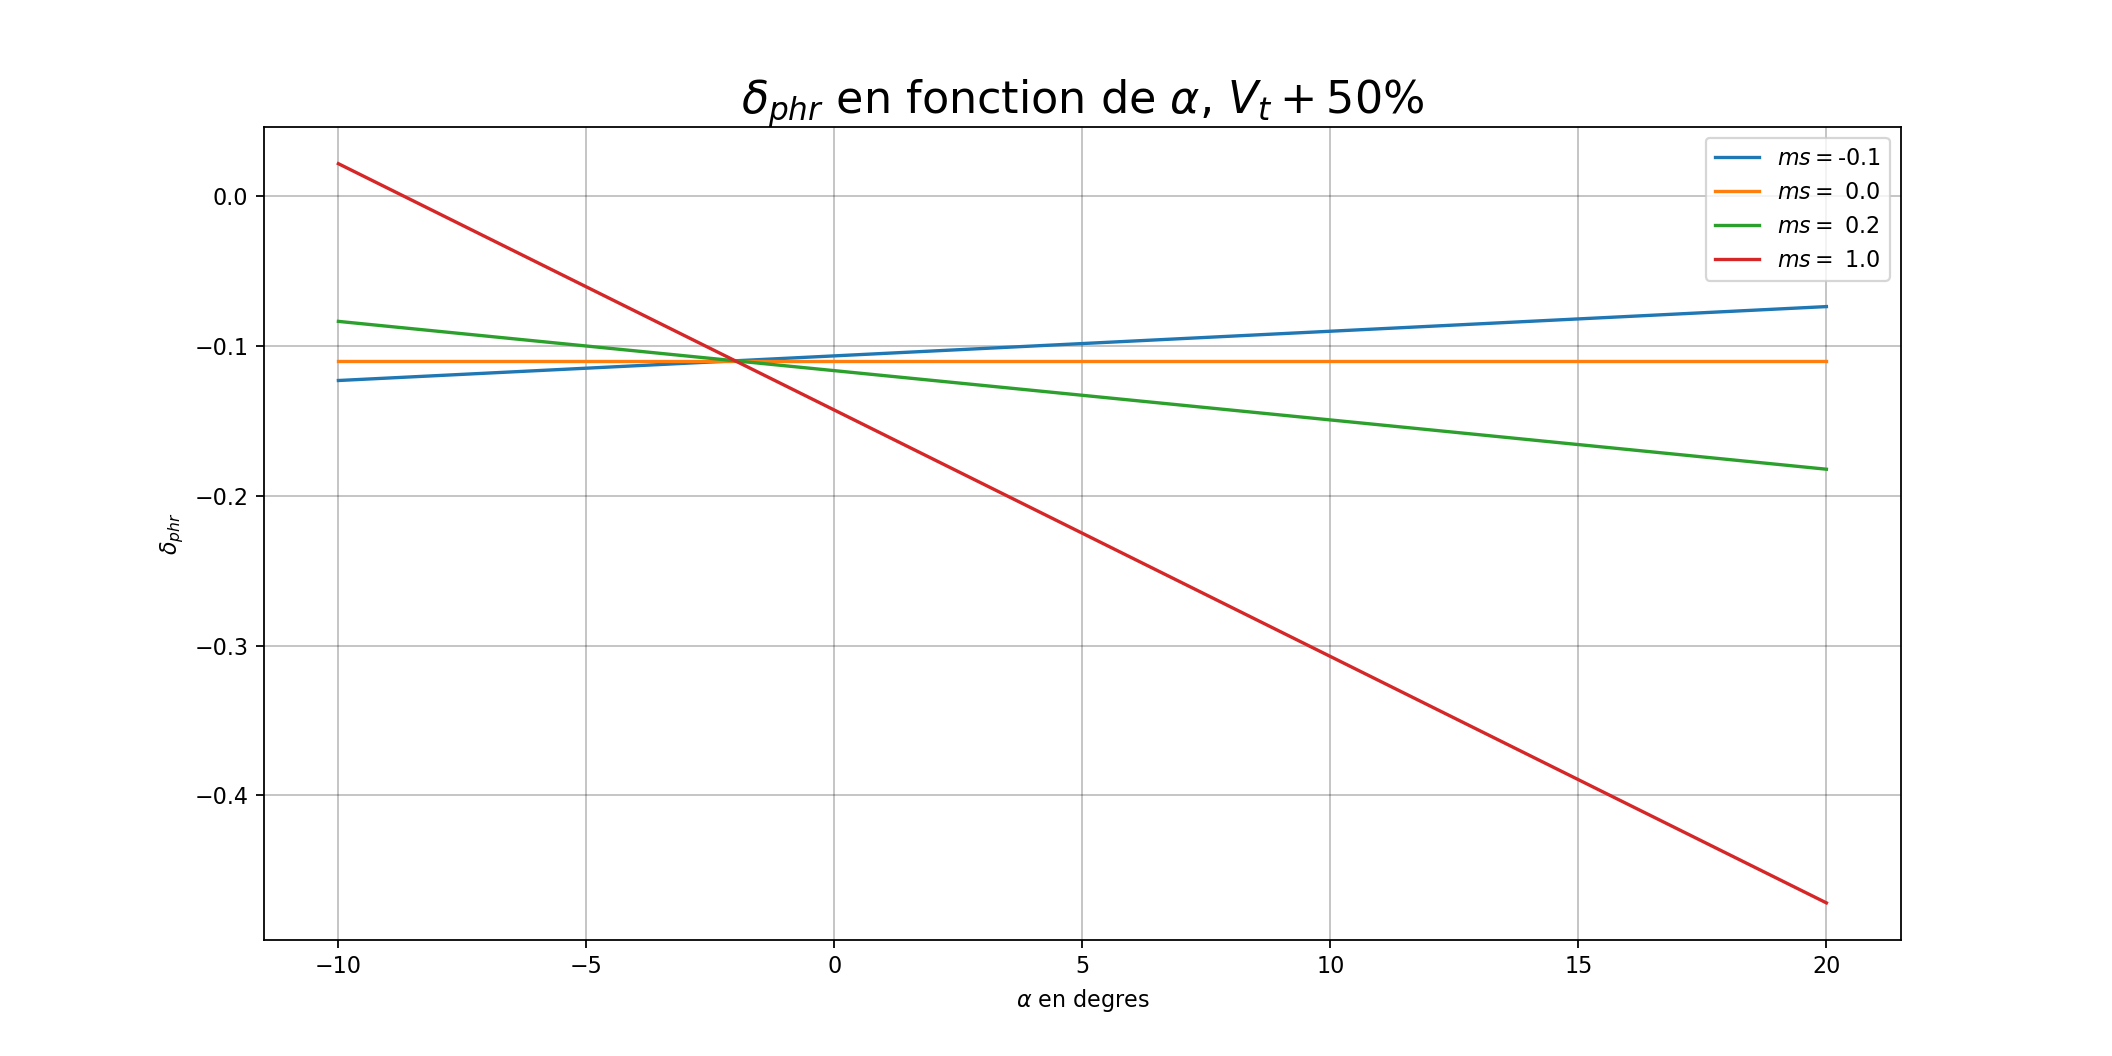
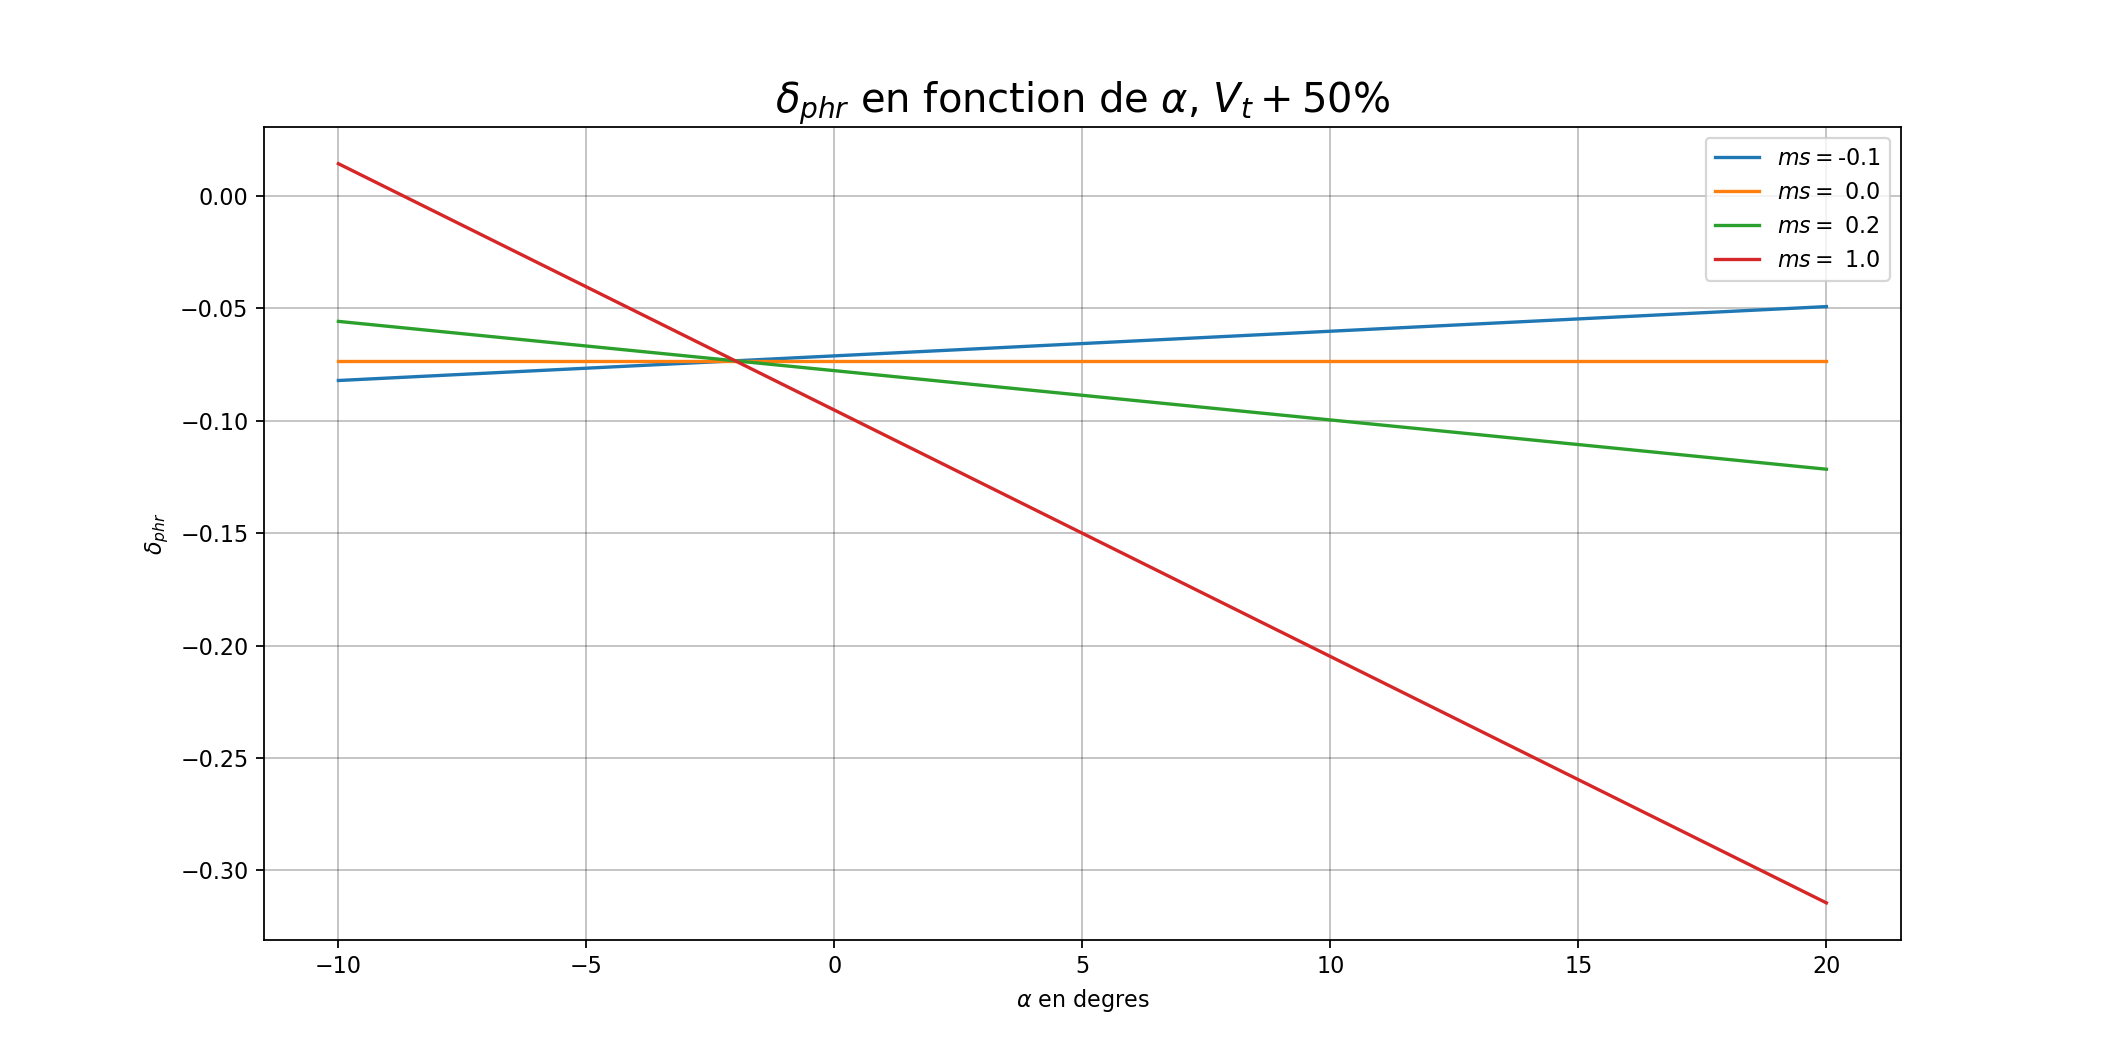
Correction poussée des moteurs

diff --git a/seance_1.py b/seance_1.py
@@ -18,7 +18,7 @@ def plot_thrust(aircraft, filename=None):
     for h in hs:
         thrusts = [dyn.propulsion_model([0, h, dyn.va_of_mach(mach, h), 0, 0, 0], U, aircraft) for mach in machs]
         plt.plot(machs, thrusts)
-    ut.decorate(plt.gca(), u'Poussée maximum {}'.format(aircraft.eng_name), 'Mach', '$N$',
+    ut.decorate(plt.gca(), u'Poussée maximum pour un moteur {}'.format(aircraft.eng_name), 'Mach', '$N$',
                 ['{} m'.format(h) for h in hs])
     if filename is not None:
         plt.savefig(filename, dpi=160)
@@ -60,23 +60,24 @@ def plot_Cm(aircraft, filename=None):
 
 
 def plot_dphr_e_vt(aircraft, filename=None):
-    aircraft.Vt = aircraft.Vt * 1.5
     mss = [-0.1, 0., 0.2, 1.]
 
     def dphr(alpha, ms):
         return (- aircraft.Cm0 + ms * aircraft.CLa * (alpha - aircraft.a0)) / aircraft.Cmd
 
-    figure = ut.prepare_fig(None,
-                            r'$\delta_{phr}$ en fonction de $\alpha$ avec $V_{t} + 50\%$ {name}'.format(phr='phr', t='t'
-                                                                                                        ,
-                                                                                                        name=aircraft.name))
+    figure = ut.prepare_fig(None, r'$\delta_{phr}$ en fonction de '
+                                  r'$\alpha$ avec $V_{t} + 50\%$ {name}'.format(phr='phr', t='t', name=aircraft.name))
     for ms in mss:
         aircraft.set_mass_and_static_margin(aircraft.m_k, ms)
+
+        aircraft.Vt = aircraft.Vt * 1.5
+        aircraft.Cmd = -aircraft.Vt * aircraft.CLat
+        aircraft.Cmq = aircraft.Cmd * aircraft.CLq
+
         dphrs = [dphr(alpha, ms) for alpha in alphas]
         plt.plot(ut.deg_of_rad(alphas), dphrs)
         ut.decorate(plt.gca(), r'$\delta_{phr}$ en fonction de $\alpha$, $V_{t} + 50\%$', r'$\alpha$ en degres',
-                    u'$\delta_{phr}$',
-                    ['$ms =  ${: .1f}'.format(ms) for ms in mss])
+                    r'$\delta_{phr}$', ['$ms =  ${: .1f}'.format(ms) for ms in mss])
     if filename is not None:
         plt.savefig(filename, dpi=160)
     return figure
@@ -161,11 +162,11 @@ def plot_polar(aircraft, filename=None):
 
 if __name__ == "__main__":
     aircraft = dyn.Param_A321()
-    plot_thrust(aircraft, 'seance_1/plots/{}_thrust.png'.format(aircraft.get_name()))
-    plot_CL(aircraft, 'seance_1/plots/{}_CL.png'.format(aircraft.get_name()))
-    plot_Cm(aircraft, 'seance_1plots/{}_Cm.png'.format(aircraft.get_name()))
-    plot_dphr_e(aircraft, 'seance_1plots/{}_dPHR.png'.format(aircraft.get_name()))
-    plot_dphr_e_vt(aircraft, 'seance_1plots/{}_dPHR vt augmenter de 50%.png'.format(aircraft.get_name()))
-    plot_CLe(aircraft, 'seance_1plots/{}_CLe.png'.format(aircraft.get_name()))
-    plot_polar(aircraft, 'seance_1plots/{}_polar.png'.format(aircraft.get_name()))
+    plot_thrust(aircraft, 'plots/seance_1/{}_thrust.png'.format(aircraft.get_name()))
+    plot_CL(aircraft, 'plots/seance_1/{}_CL.png'.format(aircraft.get_name()))
+    plot_Cm(aircraft, 'plots/seance_1/{}_Cm.png'.format(aircraft.get_name()))
+    plot_dphr_e(aircraft, 'plots/seance_1/{}_dPHR.png'.format(aircraft.get_name()))
+    plot_dphr_e_vt(aircraft, 'plots/seance_1/{}_dPHR vt augmenter de 50%.png'.format(aircraft.get_name()))
+    plot_CLe(aircraft, 'plots/seance_1/{}_CLe.png'.format(aircraft.get_name()))
+    plot_polar(aircraft, 'plots/seance_1/{}_polar.png'.format(aircraft.get_name()))
     plt.show()

diff --git a/dynamic.py b/dynamic.py
@@ -13,7 +13,11 @@ import scipy.optimize
 import utils as ut
 
 ''' naming of state and input components '''
+# voici ls composantes de X vecteur d'état en unité internationale
+#  pos horizontale, pos verticale, vit air, alpha (incidence), theta (assiette), q vit de tangage, size ??
 s_y, s_h, s_va, s_a, s_th, s_q, s_size = range(0, 7)
+# voici les composantes du vecteur de commande
+# deflection de l'élévateur, position manette gaz, rotation sur l'axe Y, rotation sur l'axe Z
 i_dm, i_dth, i_wy, i_wz, i_size = range(0, 5)
 
 
@@ -22,11 +26,16 @@ def get_mach(va, T, k=1.4, Rs=287.05):
 
 
 def va_of_mach(m, h, k=1.4, Rs=287.05):
+    """m est la vitesse en mach"""
     p, rho, T = ut.isa(h)
     return m * math.sqrt(k * Rs * T)
 
 
 def propulsion_model(X, U, P):
+    """renvoie la poussée d'UN moteur, dépend : \n
+     de la poussée max au sol (F0) \n
+     de la densité (rho) \n
+     de la commande des gaz U[i_dth] compris entre 0 et 1"""
     p, rho, T = ut.isa(X[s_h])
     rho0 = 1.225
     mach = get_mach(X[s_va], T)
@@ -63,14 +72,14 @@ def get_aero_forces_and_moments(X, U, P):
 
 
 def dyn(X, U, P):
-    """  Dynamic model """
+    """  Dynamic model, renvoie X point de l'équation d'état """
     Xdot = np.zeros(s_size)
     gamma_a = X[s_th] - X[s_a]  # air path angle
     cg, sg = math.cos(gamma_a), math.sin(gamma_a)
     ca, sa = math.cos(X[s_a]), math.sin(X[s_a])
     L, D, M = get_aero_forces_and_moments(X, U, P)
-    F = propulsion_model(X, U, P)
-    Xdot[s_y] = X[s_va] * cg - U[i_wy]
+    F = 2 * propulsion_model(X, U, P)
+    Xdot[s_y] = X[s_va] * cg - U[i_wy]  # 2 moteurs sur les avions étudiés
     Xdot[s_h] = X[s_va] * sg - U[i_wz]
     Xdot[s_va] = (F * ca - D) / P.m - P.g * sg
     Xdot[s_a] = X[s_q] - (L + F * sa) / P.m / X[s_va] + P.g / X[s_va] * cg
@@ -80,6 +89,11 @@ def dyn(X, U, P):
 
 
 def trim(P, args=None):
+    """
+    En fonction du dictionnaire args contenant va, gamma et h \n
+    calcule la deflection de l'élévateur, la position manette gaz et l'incidence \n
+    renvoie les résultats dans X et U
+    """
     va = args.get('va', 100.)
     gamma = args.get('gamma', 0.)
     h = args.get('h', 5000.)
@@ -91,13 +105,14 @@ def trim(P, args=None):
         U = np.array([dm, dth, wy, wz])
         X = np.array([0., h, va, alpha, theta, 0])
         L, D, M = get_aero_forces_and_moments(X, U, P)
-        F = propulsion_model(X, U, P)
+        F = 2 * propulsion_model(X, U, P)
         cg, sg = math.cos(gamma), math.sin(gamma)
         ca, sa = math.cos(alpha), math.sin(alpha)
+        #  équation de trainée, équation de portance, moment de tangage
         return [(F * ca - D) / P.m - P.g * sg, -(L + F * sa) / P.m + P.g * cg, M]
 
-    p0 = [ut.rad_of_deg(0.), 0.5, ut.rad_of_deg(1.)]  # TODO list ou tableau ?
-    sol = scipy.optimize.root(err_func, p0, method='hybr')  # on recherche le 0 de air_func
+    p0 = [ut.rad_of_deg(0.), 0.5, ut.rad_of_deg(1.)]
+    sol = scipy.optimize.root(err_func, np.array(p0), method='hybr')  # on recherche le 0 de air_func
     dm, dth, alpha = sol.x  # deflection de l'élévateur, position manette gaz, alpha
     X, U = [0, h, va, alpha, gamma + alpha, 0], [dm, dth, wy, wz]  # les 0 correspondent à Y et q
     return X, U

diff --git a/seance_2.py b/seance_2.py
@@ -42,7 +42,7 @@ def plot_all_trims(aircraft, hs, Mas, sms, kms, trims, filename=None):
             for i, h in enumerate(hs):
                 for j, Ma in enumerate(Mas):
                     alpha, dphr, dth = trims[i, j, k, l]
-                    fmt = 'alt {:5.0f} Ma {:.1f} sm {:.1f} km {:.1f} -> alpha {:5.2f} deg phr {:-5.1f} deg throttle {:.1f} %'
+                    fmt = 'alt {:5.0f}, Ma {:.1f}, sm {:.1f}, km {:.1f} -> alpha {:5.2f} deg, phr {:-5.1f} deg, throttle {:.1f} %'
                     print(fmt.format(h, Ma, sm, km, ut.deg_of_rad(alpha), ut.deg_of_rad(dphr), 100 * dth))
             ax = plt.subplot(4, 3, 3 * m + 1)
             plt.plot(hs, ut.deg_of_rad(trims[:, 0, k, l, 0]))
@@ -79,8 +79,8 @@ def get_CL_Fmax_trim(aircraft, h, Ma):
     p, rho, T = ut.isa(h)
     va = dyn.va_of_mach(Ma, h)
     pdyn = 0.5 * rho * va ** 2
-    return aircraft.m * aircraft.g / (pdyn * aircraft.S), dyn.propulsion_model([0, h, va, 0, 0, 0], [0, 1, 0, 0],
-                                                                               aircraft)
+    return aircraft.m * aircraft.g / (pdyn * aircraft.S), \
+           dyn.propulsion_model([0, h, va, 0, 0, 0], [0, 1, 0, 0], aircraft)
 
 
 def get_linearized_model(aircraft, h, Ma, sm, km):
@@ -157,4 +157,4 @@ if __name__ == "__main__":
 
     # plot_poles(aircraft, hs, Mas, sms, [kms[0]], 'seance_2/plots/{}_poles_1.png'.format(aircraft.get_name()))
     # plot_poles(aircraft, hs, Mas, sms, [kms[1]], 'seance_2/plots/{}_poles_2.png'.format(aircraft.get_name()))
-    # plt.show()
+    plt.show()

diff --git a/utils.py b/utils.py
@@ -105,7 +105,7 @@ def decorate(ax, title=None, xlab=None, ylab=None, legend=None, xlim=None, ylim=
     if ylab:
         ax.yaxis.set_label_text(ylab)
     if title:
-        ax.set_title(title, {'fontsize': 20})
+        ax.set_title(title, {'fontsize': 18})
     if legend is not None:
         ax.legend(legend, loc='best')
     if xlim is not None:
